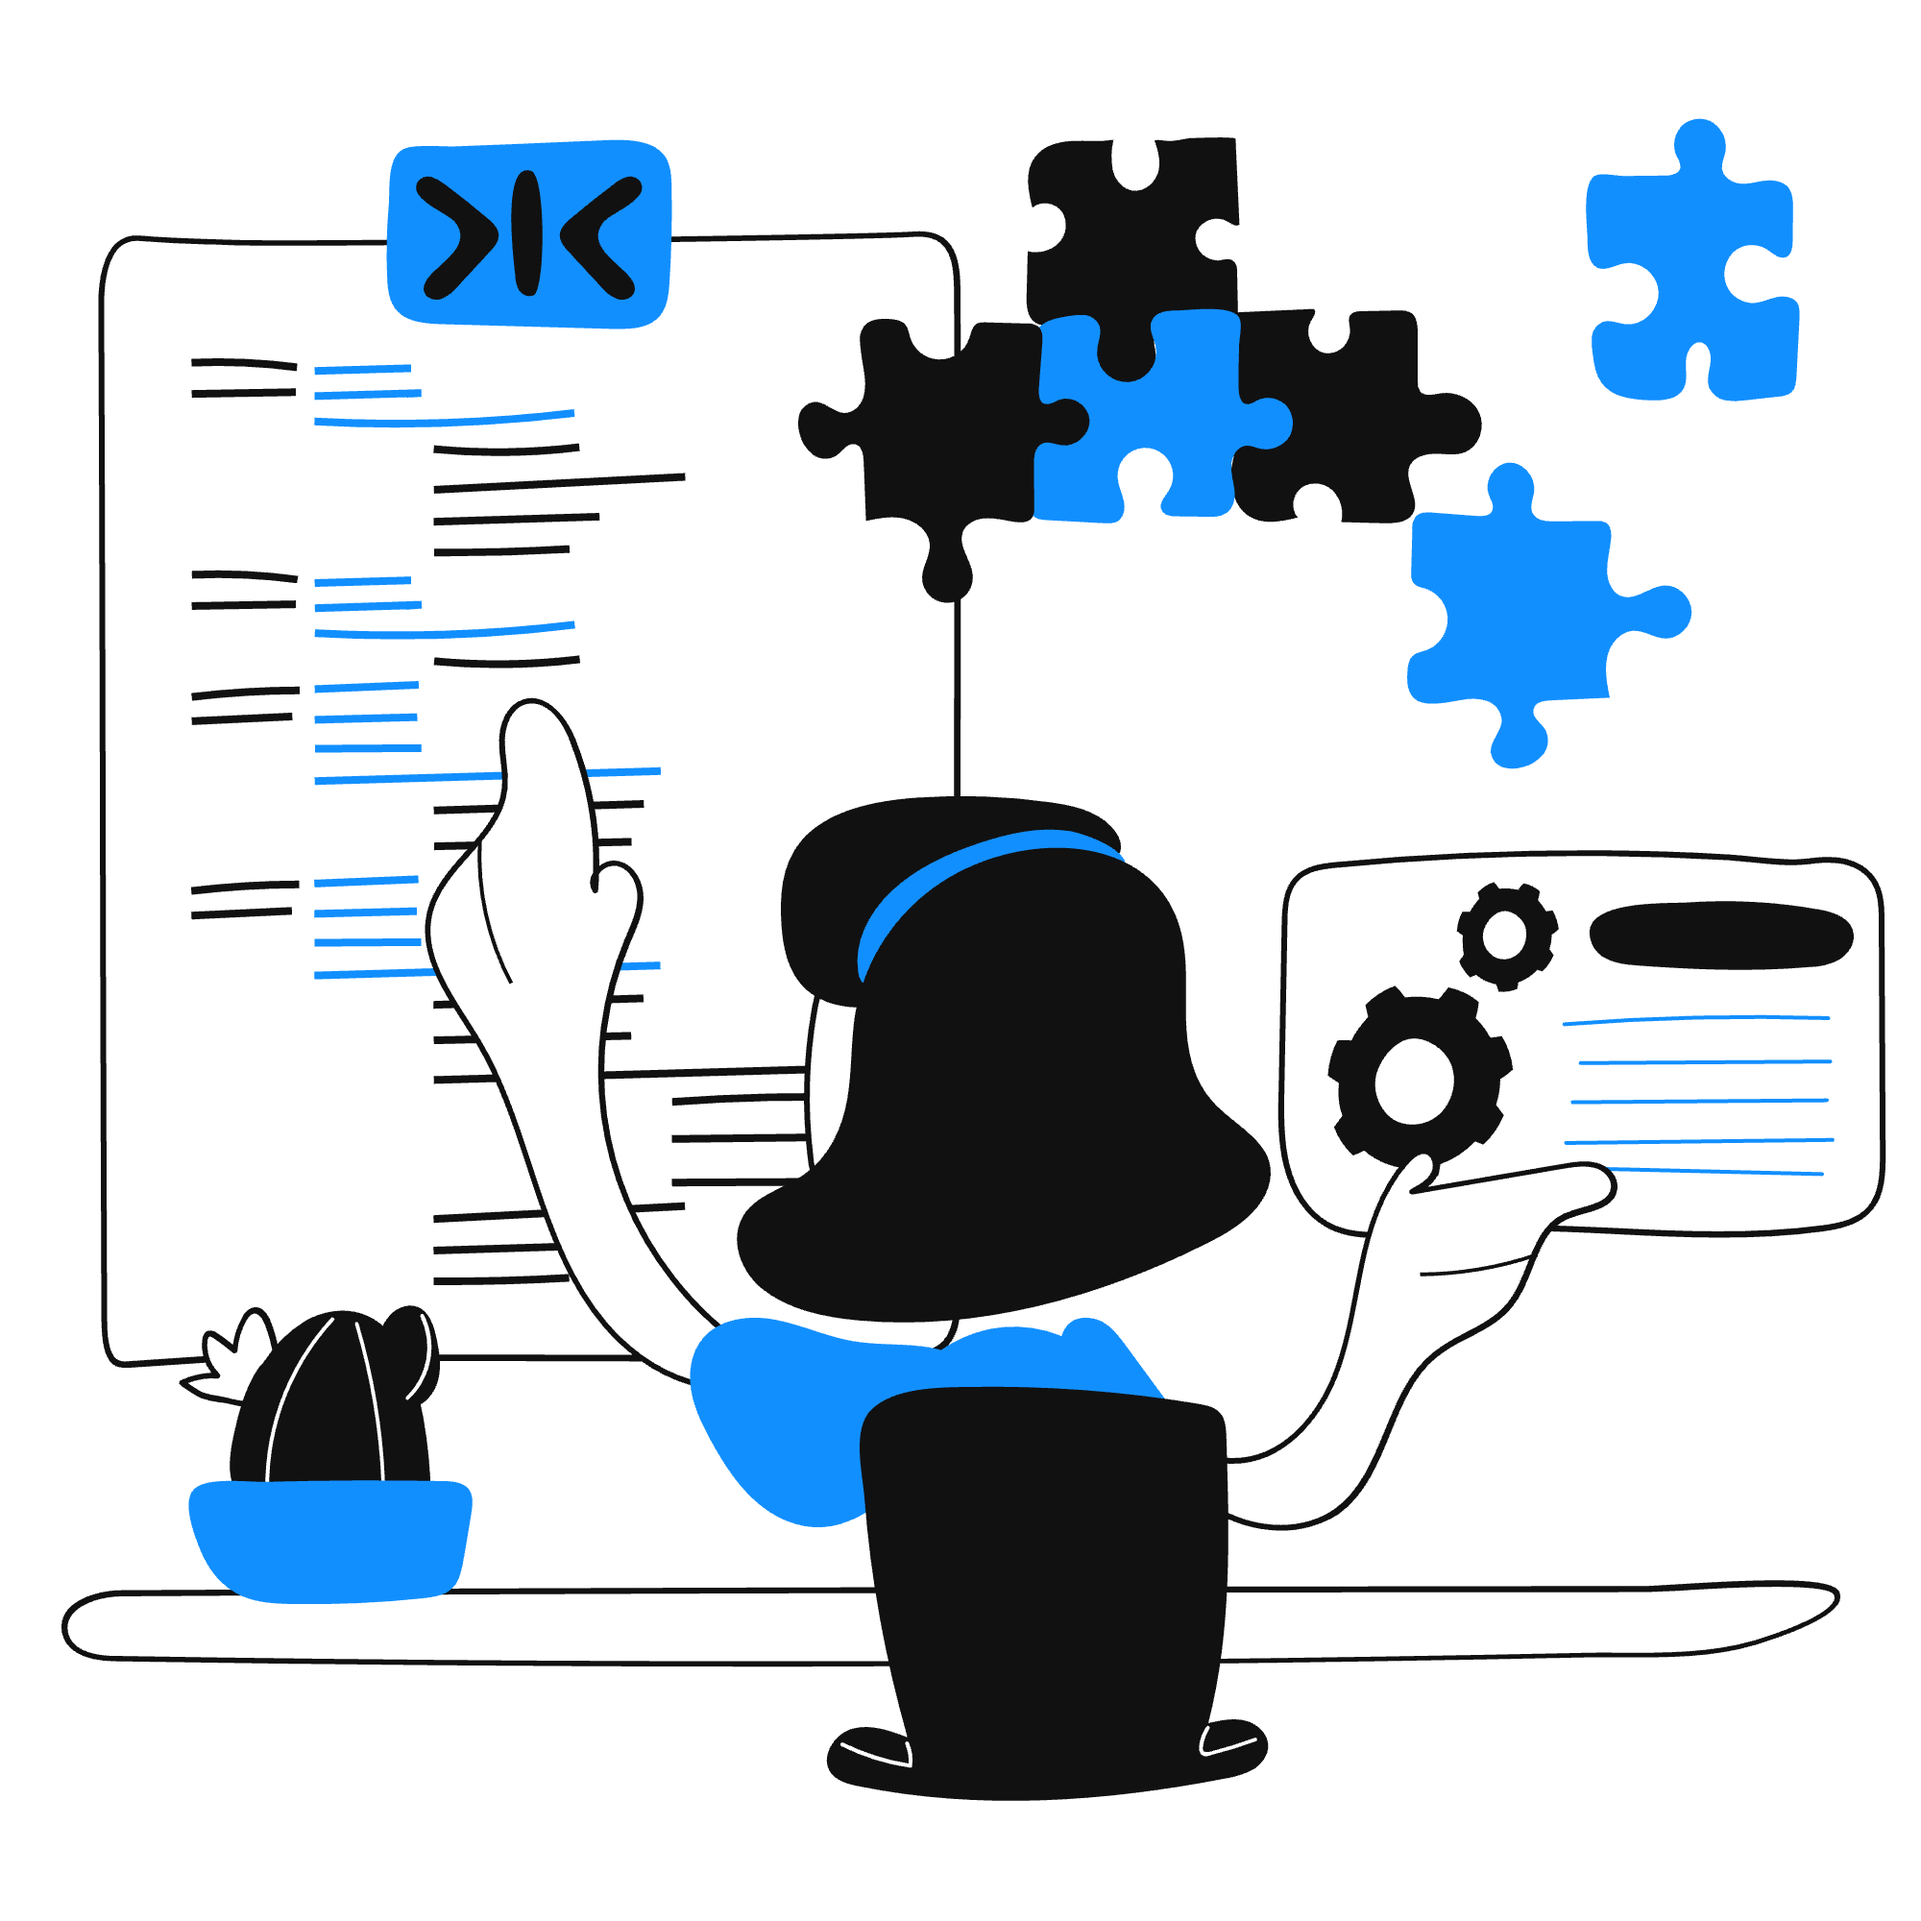
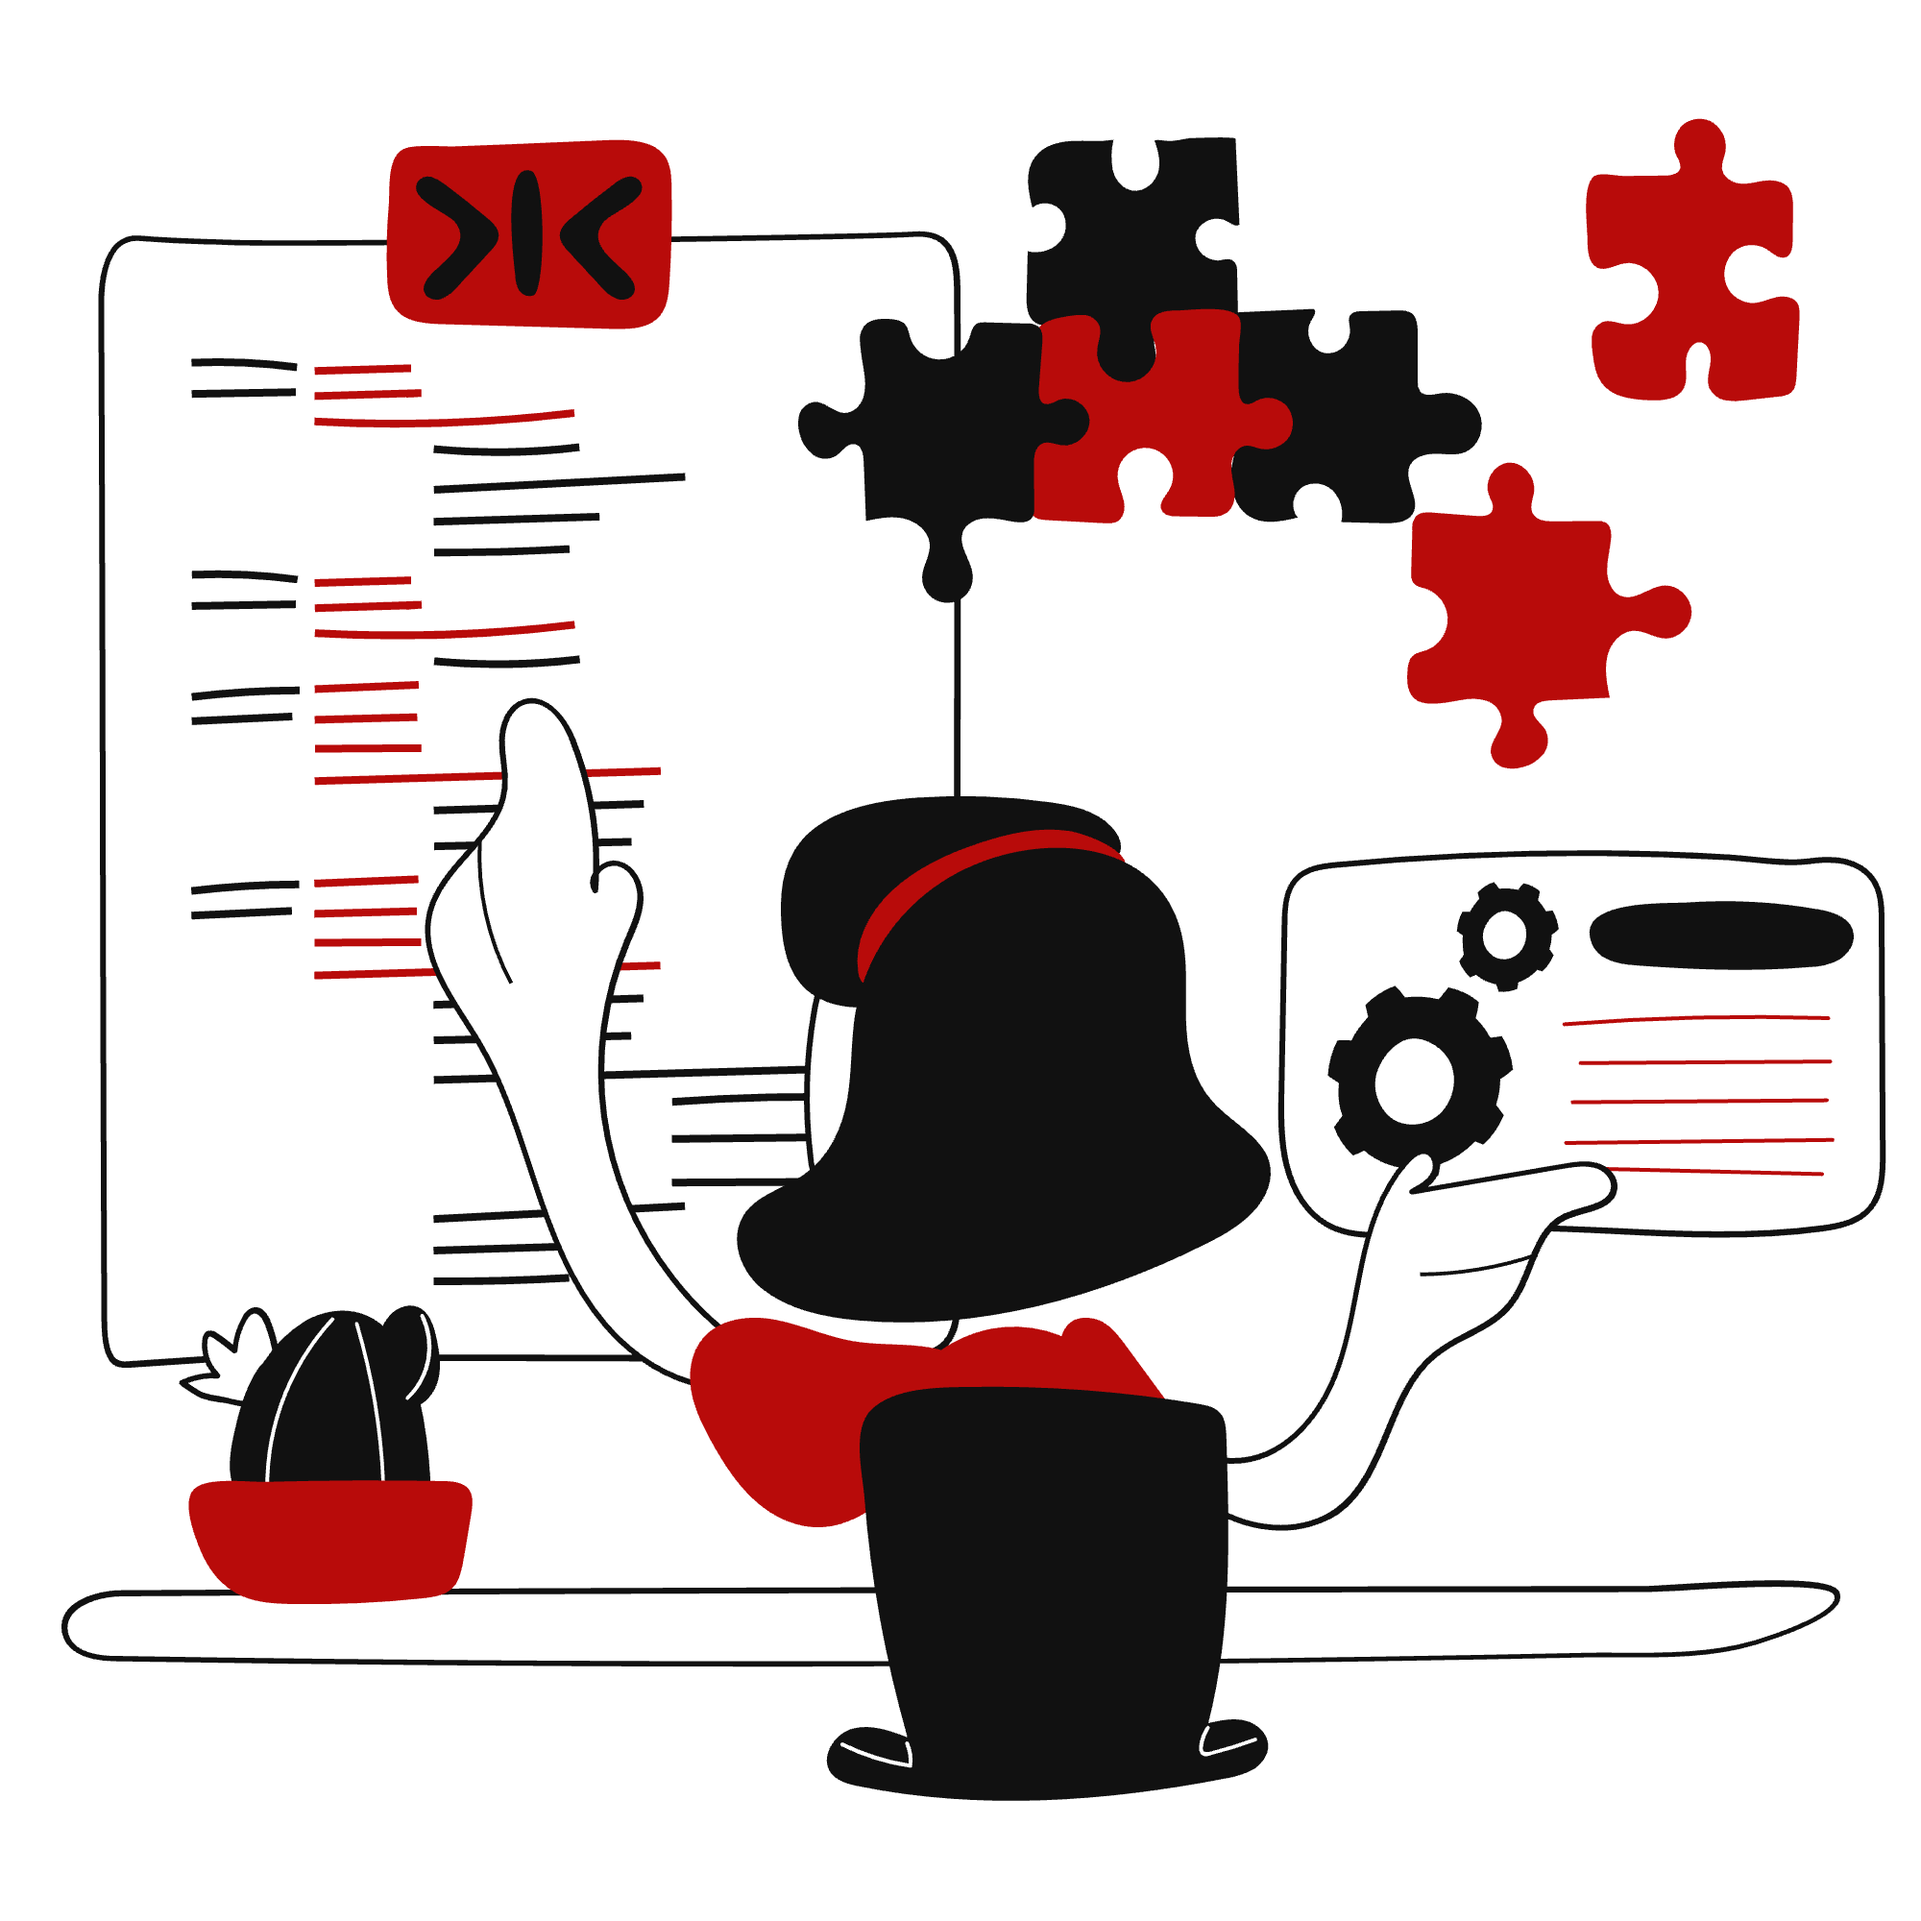
[Add]: Color pallete to red

diff --git a/assets/css/theme.min.css b/assets/css/theme.min.css
@@ -53,9 +53,9 @@
 }
 
 .icon-lg {
-    height: 3rem;
+    height: 3.5rem;
     line-height: 3rem;
-    width: 3rem
+    width: 3.5rem
 }
 
 .icon-xl {
@@ -101,7 +101,7 @@
 }
 
 .bg-primary-gradient {
-    background: linear-gradient(180deg, #66b3ff, #128FFF 47.92%, #0a7be4);
+    background: linear-gradient(180deg, #e46666, #b80b0a 47.92%, #930909);
 }
 
 .color-facebook {
@@ -1793,7 +1793,7 @@
     --bs-gray-700: #334155;
     --bs-gray-800: #1e293b;
     --bs-gray-900: #0f172a;
-    --bs-primary: #128FFF;
+    --bs-primary: #b80b0a;
     --bs-secondary: #e2e8f0;
     --bs-success: #008008;
     --bs-info: #0dcaf0;
@@ -1802,7 +1802,7 @@
     --bs-light: #f1f5f9;
     --bs-dark: #0f172a;
     --bs-white: #fff;
-    --bs-primary-rgb: 18, 143, 255;
+    --bs-primary-rgb: 184, 11, 10;
     --bs-secondary-rgb: 226, 232, 240;
     --bs-success-rgb: 0, 128, 8;
     --bs-info-rgb: 13, 202, 240;
@@ -1818,8 +1818,8 @@
     --bs-danger-text-emphasis: #580816;
     --bs-light-text-emphasis: #334155;
     --bs-dark-text-emphasis: #334155;
-    --bs-primary-bg-subtle: #e8f4ff;
-    --bs-primary-bg-text-subtle: #381866;
+    --bs-primary-bg-subtle: #f8d8d8;
+    --bs-primary-bg-text-subtle: #5a1e1e;
     --bs-secondary-bg-subtle: #f4f8ff;
     --bs-success-bg-subtle: #cce6ce;
     --bs-info-bg-subtle: #cff4fc;
@@ -1827,7 +1827,7 @@
     --bs-danger-bg-subtle: #f8d0d7;
     --bs-light-bg-subtle: #f8fafc;
     --bs-dark-bg-subtle: #94a3b8;
-    --bs-primary-border-subtle: #a0c8ff;
+    --bs-primary-border-subtle: #e4a1a1;
     --bs-secondary-border-subtle: #f3f6f9;
     --bs-success-border-subtle: #99cc9c;
     --bs-info-border-subtle: #9eeaf9;
@@ -1860,7 +1860,7 @@
     --bs-tertiary-bg-rgb: 241, 245, 249;
     --bs-heading-color: var(--bs-gray-800);
     --bs-link-color: #8b3dff;
-    --bs-link-color-rgb: 18, 143, 255;
+    --bs-link-color-rgb: 184, 11, 10;
     --bs-link-decoration: none;
     --bs-link-hover-color: #6f31cc;
     --bs-link-hover-color-rgb: 14, 109, 178;
@@ -1915,16 +1915,16 @@
     --bs-danger-text-emphasis: #e97286;
     --bs-light-text-emphasis: #f1f5f9;
     --bs-dark-text-emphasis: #cbd5e1;
-    --bs-primary-bg-subtle: #0b3d91;
-    --bs-secondary-bg-subtle: #003366;
+    --bs-primary-bg-subtle: #f7d6d6;
     --bs-primary-bg-text-subtle: #f5f5f5;
+    --bs-secondary-bg-subtle: #003366;
     --bs-success-bg-subtle: #001a02;
     --bs-info-bg-subtle: #032830;
     --bs-warning-bg-subtle: #332701;
     --bs-danger-bg-subtle: #2c040b;
     --bs-light-bg-subtle: #0f172a;
     --bs-dark-bg-subtle: #101829;
-    --bs-primary-border-subtle: #a0c8ff;
+    --bs-primary-border-subtle: #f2a1a1;
     --bs-secondary-border-subtle: #888b90;
     --bs-success-border-subtle: #004d05;
     --bs-info-border-subtle: #087990;
@@ -1935,7 +1935,7 @@
     --bs-heading-color: #e2e8f0;
     --bs-link-color: #b98bff;
     --bs-link-hover-color: #c7a2ff;
-    --bs-link-color-rgb: 18, 143, 255;
+    --bs-link-color-rgb: 184, 11, 10;
     --bs-link-hover-color-rgb: 14, 109, 178;
     --bs-code-color: #e685b5;
     --bs-highlight-color: #64748b;
@@ -5239,20 +5239,21 @@ fieldset:disabled .btn {
 
 .btn-primary {
     --bs-btn-color: #fff;
-    --bs-btn-bg: #128FFF; /* Primary blue background */
-    --bs-btn-border-color: #128FFF; /* Primary blue border */
+    --bs-btn-bg: #b80b0a; /* Primary red background */
+    --bs-btn-border-color: #b80b0a; /* Primary red border */
     --bs-btn-hover-color: #fff;
-    --bs-btn-hover-bg: #0e6db2; /* Darker blue for hover */
-    --bs-btn-hover-border-color: #0c5b9b; /* Darker blue border on hover */
-    --bs-btn-focus-shadow-rgb: 18, 143, 255; /* Blue focus shadow */
+    --bs-btn-hover-bg: #9e0a09; /* Darker red for hover */
+    --bs-btn-hover-border-color: #870808; /* Darker red border on hover */
+    --bs-btn-focus-shadow-rgb: 184, 11, 10; /* Red focus shadow */
     --bs-btn-active-color: #fff;
-    --bs-btn-active-bg: #0c5b9b; /* Even darker blue for active */
-    --bs-btn-active-border-color: #094c7b; /* Even darker blue border on active */
-    --bs-btn-active-shadow: inset 0 3px 5px rgba(2, 6, 23, .125);
+    --bs-btn-active-bg: #870808; /* Even darker red for active */
+    --bs-btn-active-border-color: #720707; /* Even darker red border on active */
+    --bs-btn-active-shadow: inset 0 3px 5px rgba(23, 2, 2, .125);
     --bs-btn-disabled-color: #fff;
-    --bs-btn-disabled-bg: #128FFF; /* Primary blue background for disabled state */
-    --bs-btn-disabled-border-color: #128FFF; /* Primary blue border for disabled state */
+    --bs-btn-disabled-bg: #b80b0a; /* Primary red background for disabled state */
+    --bs-btn-disabled-border-color: #b80b0a; /* Primary red border for disabled state */
 }
+
 
 .btn-secondary {
     --bs-btn-color: #020617;
@@ -21774,12 +21775,12 @@ div.code-toolbar>.toolbar>.toolbar-item>span:hover {
 }
 
 :root {
-    --swiper-theme-color: #128FFF
+    --swiper-theme-color: #b80b0a
 }
 
 .swiper-pagination-bullet {
     background: transparent;
-    border: 2px solid #128FFF;
+    border: 2px solid #b80b0a;
     border-radius: var(--swiper-pagination-bullet-border-radius, 50%);
     display: inline-block;
     height: 10px;
@@ -21789,7 +21790,7 @@ div.code-toolbar>.toolbar>.toolbar-item>span:hover {
 
 .swiper-pagination-bullet-active {
     background: var(--swiper-pagination-color, var(--swiper-theme-color));
-    border-color: #128FFF;
+    border-color: #b80b0a;
     opacity: var(--swiper-pagination-bullet-opacity, 1)
 }
 

diff --git a/index.html b/index.html
@@ -151,7 +151,7 @@
                             <div class="d-flex flex-wrap gap-4 my-6" data-cues="slideInDown" data-group="page-title-buttons" data-delay="900">
                                 <div class="d-flex align-items-center">
                                     <span class="border p-2 align-items-center rounded-circle bg-white text-primary d-inline-flex">
-                                 <svg xmlns="http://www.w3.org/2000/svg" width="16" height="16" fill="#128fff" class="bi bi-credit-card" viewBox="0 0 16 16">
+                                 <svg xmlns="http://www.w3.org/2000/svg" width="16" height="16" fill="#b80b0a" class="bi bi-credit-card" viewBox="0 0 16 16">
                                     <path
                                        d="M0 4a2 2 0 0 1 2-2h12a2 2 0 0 1 2 2v8a2 2 0 0 1-2 2H2a2 2 0 0 1-2-2V4zm2-1a1 1 0 0 0-1 1v1h14V4a1 1 0 0 0-1-1H2zm13 4H1v5a1 1 0 0 0 1 1h12a1 1 0 0 0 1-1V7z" />
                                     <path d="M2 10a1 1 0 0 1 1-1h1a1 1 0 0 1 1 1v1a1 1 0 0 1-1 1H3a1 1 0 0 1-1-1v-1z" />
@@ -162,7 +162,7 @@
 
                                 <div class="d-flex align-items-center">
                                     <span class="border p-2 align-items-center rounded-circle bg-white text-primary d-inline-flex">
-                                 <svg xmlns="http://www.w3.org/2000/svg" width="16" height="16" fill="#128fff" class="bi bi-cash-stack" viewBox="0 0 16 16">
+                                 <svg xmlns="http://www.w3.org/2000/svg" width="16" height="16" fill="#b80b0a" class="bi bi-cash-stack" viewBox="0 0 16 16">
                                     <path d="M1 3a1 1 0 0 1 1-1h12a1 1 0 0 1 1 1H1zm7 8a2 2 0 1 0 0-4 2 2 0 0 0 0 4z" />
                                     <path d="M0 5a1 1 0 0 1 1-1h14a1 1 0 0 1 1 1v8a1 1 0 0 1-1 1H1a1 1 0 0 1-1-1V5zm3 0a2 2 0 0 1-2 2v4a2 2 0 0 1 2 2h10a2 2 0 0 1 2-2V7a2 2 0 0 1-2-2H3z" />
                                  </svg>
